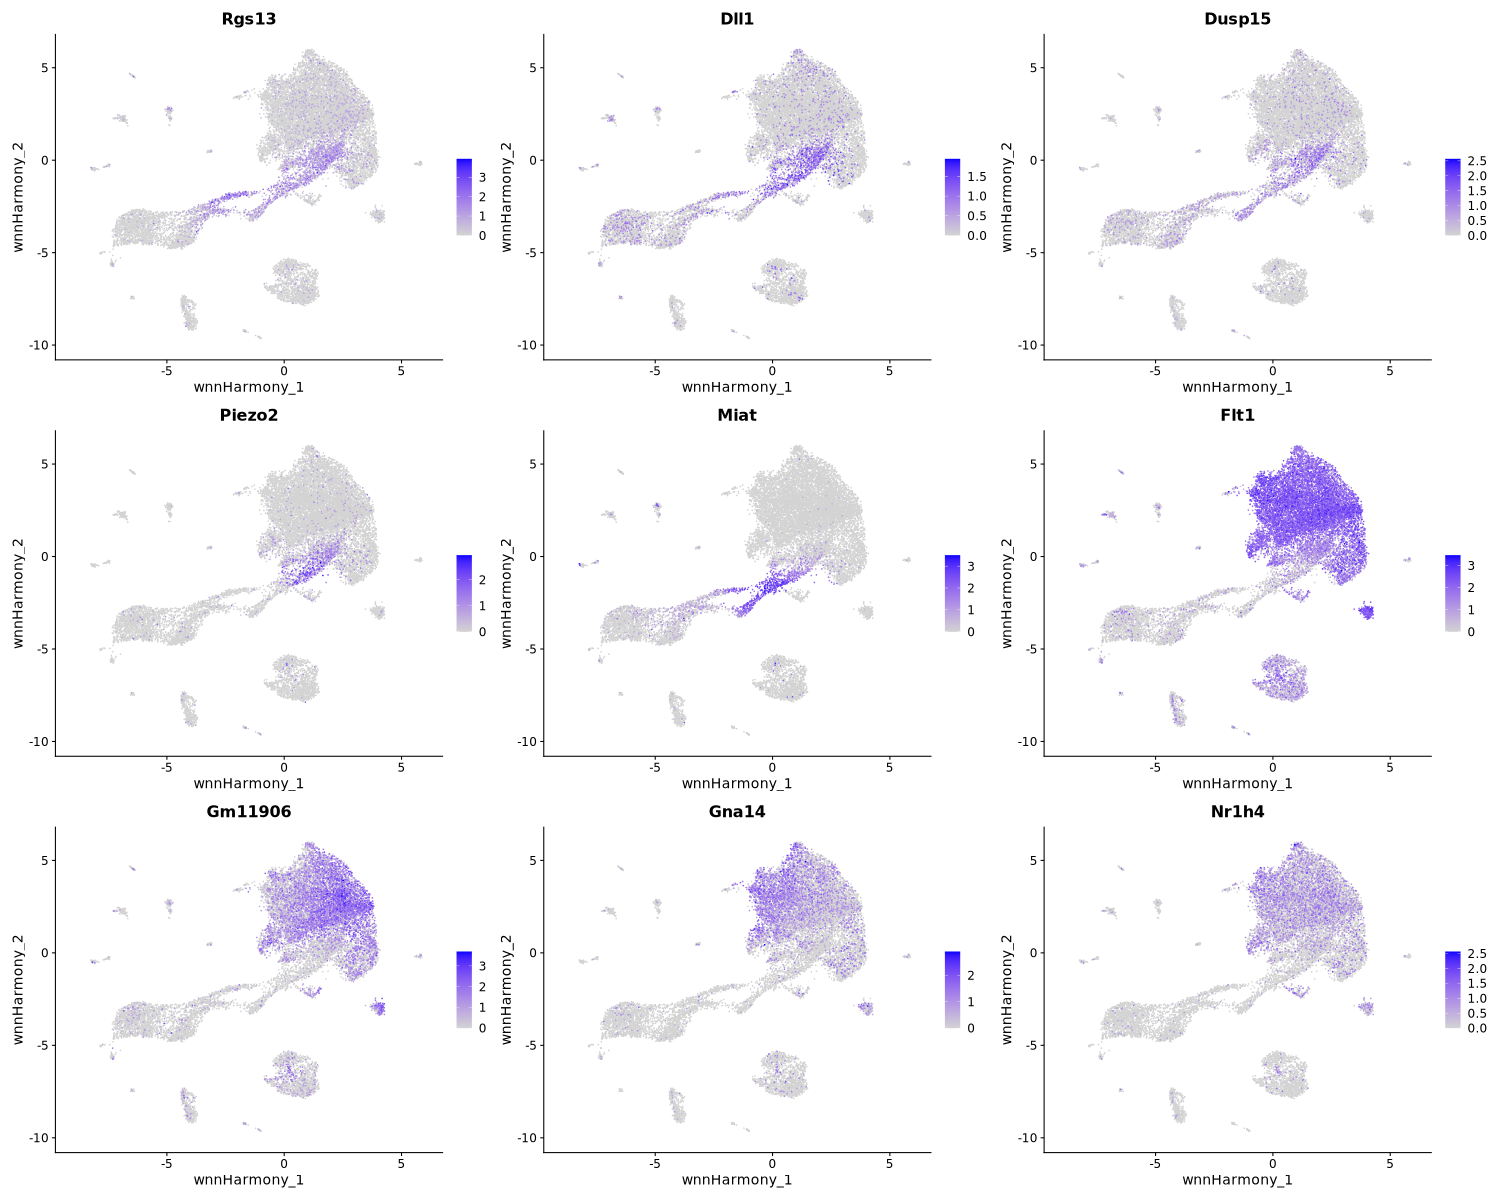
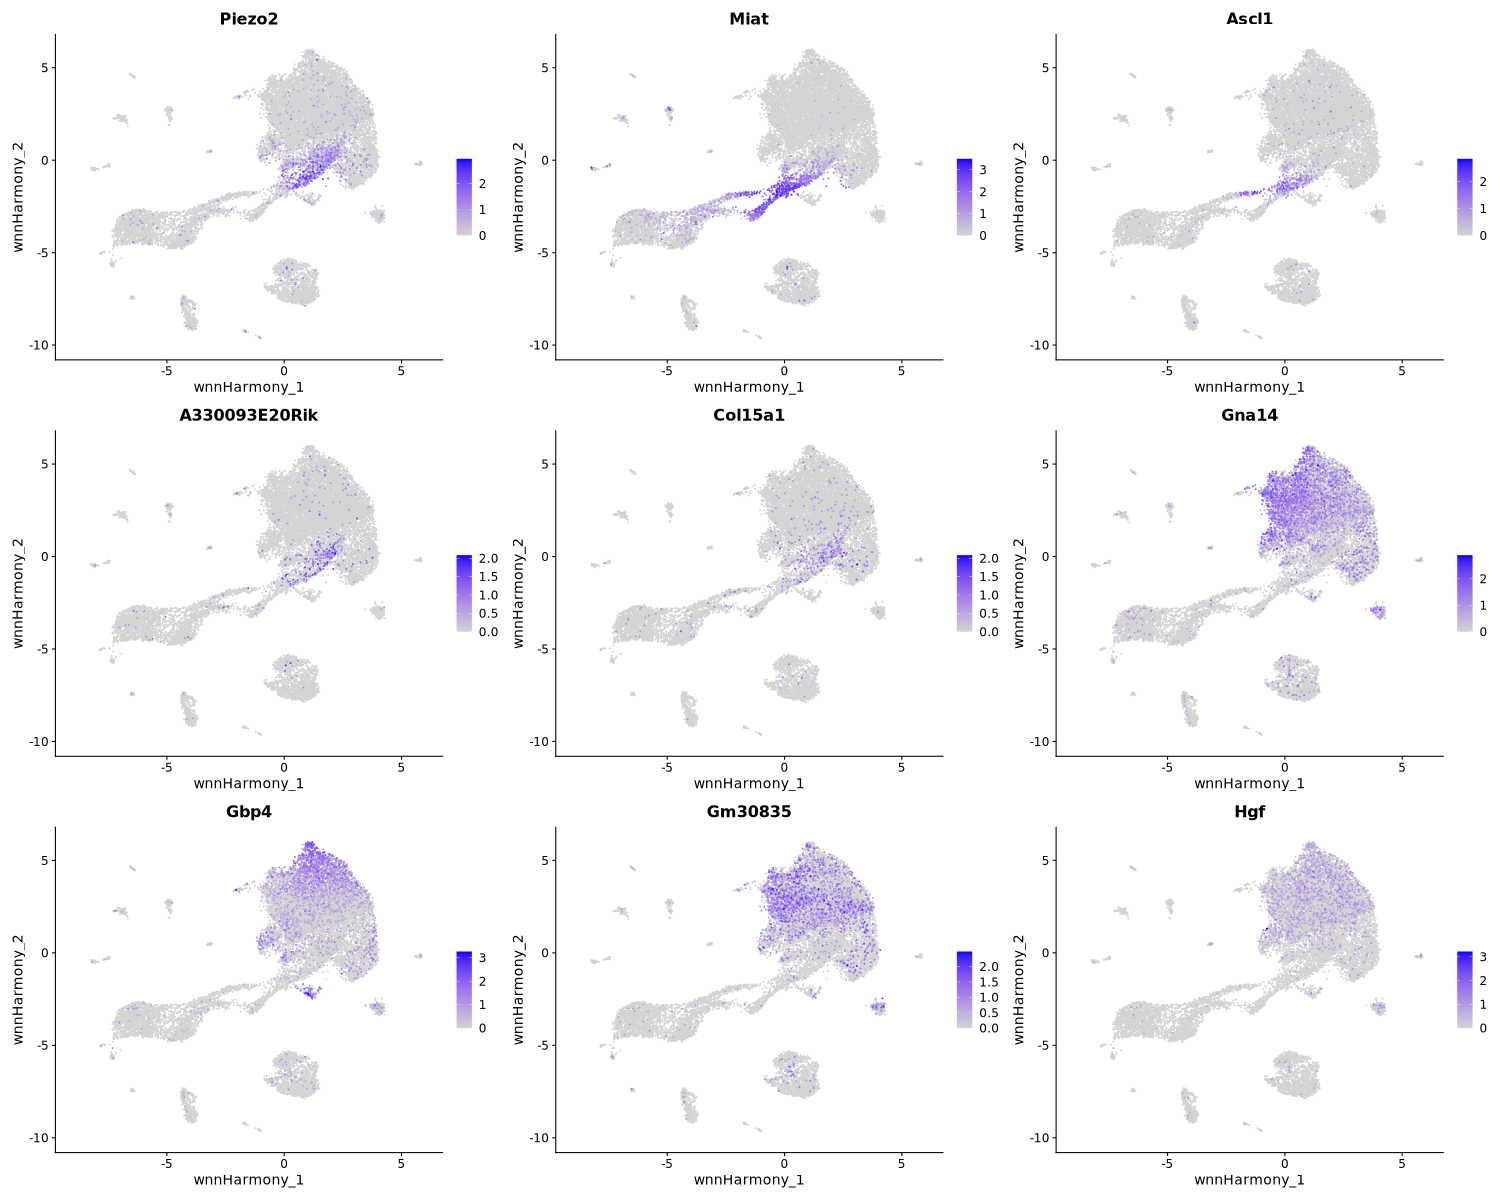
Update DGE plots

diff --git a/README.md b/README.md
@@ -116,13 +116,31 @@ Normally, adult mouse retinas cannot generate new neurons, so vision loss is per
 # ⚠  ⚠  ⚠  ⚠  TOO STRINGENT PARAMETERS NEUROG2_S9A DOESN'T SHOW UP
 # ⚠  ⚠  ⚠  ⚠  WORKING ON THIS 
 
-![](figures/cNeurog2_celltype_markers_heatmap.png?v=4)
 
-![](figures/cNeurog2_celltype_top_markers_featureplot.png?v=4)
+```r
+celltype_markers <- FindAllMarkers(
+  myObject,
+  assay = "SCT",
+  only.pos = TRUE,
+  min.pct = 0.1,
+  logfc.threshold = 0.05,
+  test.use = "wilcox",
+  verbose = TRUE
+)
+``` 
 
-![](figures/cNeurog2_celltype_markers_dotplot.png?v=4)
+![](figures/DE_heatmap_Neurog2-9SA.png?v=1)
 
-![](figures/cNeurog2_celltype_DE_upset.png?v=1)
+![](figures/cNeurog2_celltype_markers_heatmap.png?v=5)
+
+![](figures/cNeurog2_celltype_top_markers_featureplot.png?v=5)
+
+![](figures/cNeurog2_celltype_markers_dotplot.png?v=5)
+
+
+## Not updated for now  
+![](figures/cNeurog2_celltype_DE_upset.png?v=2)
+
 
 
 ##### Rod 
